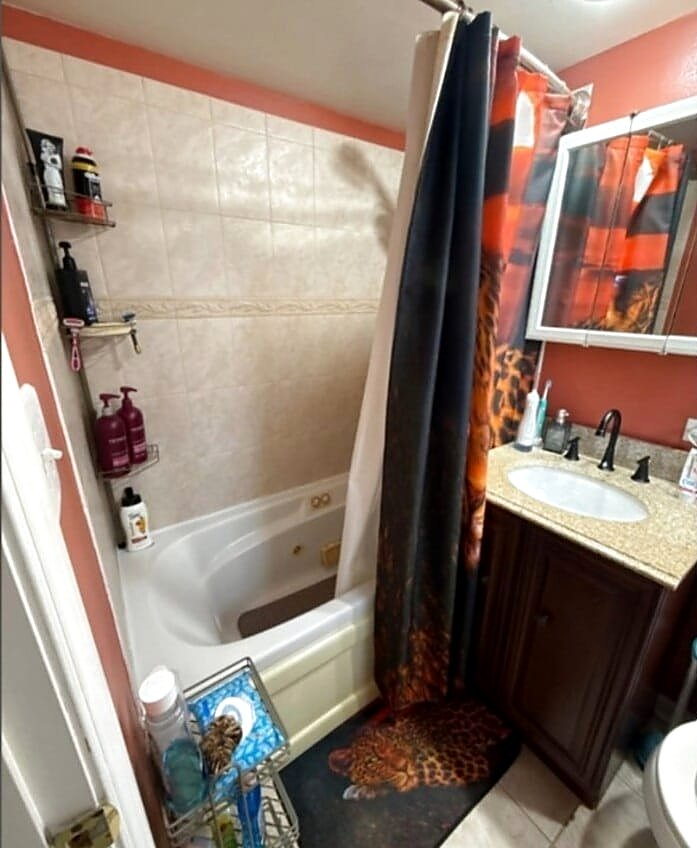
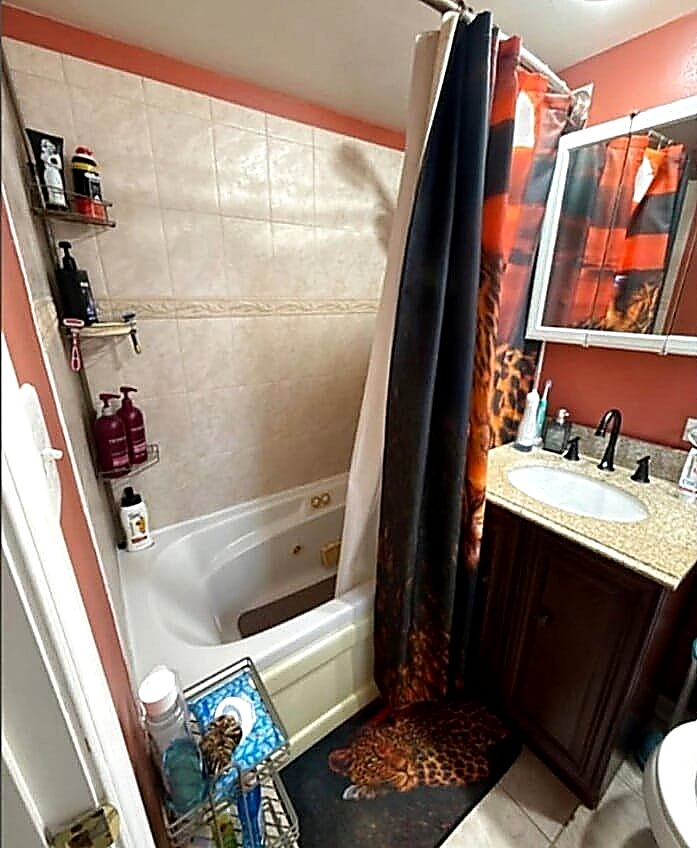
Remove Pergola concept slider; sharpen and resize before/after gallery
Removed the "Pergola — Design Concept" compare-item entirely per
client request, and the section lead's "except the last, marked
Concept" caveat along with it since every remaining slider is now a
completed real project. Updated the meta description to match.

The real before/after photos (bath1, bath2, shower, deck1/2/3) come
from client-supplied collages that were already fairly low-resolution
per half (697-797px wide) — well short of what the compare slider's
full container width (up to ~1240px, more at retina) needs to render
sharp. Capped .compare-item .compare at max-width:800px to cut the
upscale ratio substantially, and applied a stronger sharpening pass
(UnsharpMask + contrast + sharpness boost) tuned for already-soft,
under-resolved source material.

This measurably improves how they look but doesn't eliminate the
ceiling the source resolution sets — genuinely fixing it end to end
needs higher-resolution originals of these six rooms.

diff --git a/portfolio.html b/portfolio.html
@@ -4,7 +4,7 @@
 <meta charset="utf-8">
 <meta name="viewport" content="width=device-width, initial-scale=1">
 <title>Portfolio | M&amp;Z Design Chicago</title>
-<meta name="description" content="Room-by-room portfolio from M&amp;Z Design Chicago — kitchens, baths, living rooms, offices, bedrooms, and outdoor living, plus a reimagined pergola.">
+<meta name="description" content="Room-by-room portfolio from M&amp;Z Design Chicago — kitchens, baths, living rooms, offices, bedrooms, and outdoor living.">
 <link rel="canonical" href="https://test.mzdesignchicago.com/portfolio">
 <meta property="og:type" content="website">
 <meta property="og:site_name" content="M&amp;Z Design Chicago">
@@ -20,7 +20,7 @@
 <link rel="preconnect" href="https://fonts.googleapis.com">
 <link rel="preconnect" href="https://fonts.gstatic.com" crossorigin>
 <link rel="stylesheet" href="https://fonts.googleapis.com/css2?family=Cormorant+Garamond:ital,wght@0,300;0,400;0,500;0,600;0,700;1,300;1,400;1,600&family=Work+Sans:ital,wght@0,300;0,400;0,500;0,600;1,400&display=swap">
-<link rel="stylesheet" href="styles.css?v=202609261800">
+<link rel="stylesheet" href="styles.css?v=202609261810">
 <script async src="https://www.googletagmanager.com/gtag/js?id=G-YE0TQJKPHE"></script>
 <noscript><style>[data-reveal]{opacity:1!important;transform:none!important;}</style></noscript>
 </head>
@@ -161,7 +161,7 @@
       <div class="section-head">
         <p class="eyebrow">Before &amp; After</p>
         <h2>From overlooked to unforgettable.</h2>
-        <p class="lead">Drag any slider to compare. These are completed M&amp;Z projects, photographed before work began and again once finished — except the last, marked "Concept," which shows a design direction for a space we haven't built yet.</p>
+        <p class="lead">Drag any slider to compare. These are completed M&amp;Z projects, photographed before work began and again once finished.</p>
       </div>
 
       <div class="compare-item" data-reveal>
@@ -248,20 +248,6 @@
         </div>
       </div>
 
-      <div class="compare-item" data-reveal>
-        <h3>Pergola — Design Concept</h3>
-        <p>A dated white pergola, reimagined as a warm, layered outdoor room through lighting, natural textures and thoughtful styling — keeping what is already there, because a dramatic result doesn't always require an expensive rebuild.</p>
-        <div class="compare">
-          <picture><source type="image/webp" srcset="assets/img/pergola-after.webp"><img src="assets/img/pergola-after.jpg" width="1536" height="1024" alt="Design concept: the same outdoor structure styled as a warm, layered lounge with a fire pit"></picture>
-          <div class="after-wrap">
-            <picture><source type="image/webp" srcset="assets/img/pergola-before.webp"><img src="assets/img/pergola-before.jpg" width="1536" height="1030" alt="Before: a plain white pergola over a bare deck"></picture>
-          </div>
-          <span class="compare-tag compare-tag--before">Before</span>
-          <span class="compare-tag compare-tag--after">Concept</span>
-          <div class="compare-handle"><svg width="16" height="16"><use href="assets/icons.svg?v=202609231525#icon-arrow"></use></svg></div>
-          <input type="range" min="0" max="100" value="56" aria-label="Drag to compare before and after — Pergola Design Concept">
-        </div>
-      </div>
     </div>
   </section>
 
@@ -363,6 +349,6 @@
   </div>
 </footer>
 
-<script src="script.js?v=202609261800" defer></script>
+<script src="script.js?v=202609261810" defer></script>
 </body>
 </html>

diff --git a/contact.html b/contact.html
@@ -20,7 +20,7 @@
 <link rel="preconnect" href="https://fonts.googleapis.com">
 <link rel="preconnect" href="https://fonts.gstatic.com" crossorigin>
 <link rel="stylesheet" href="https://fonts.googleapis.com/css2?family=Cormorant+Garamond:ital,wght@0,300;0,400;0,500;0,600;0,700;1,300;1,400;1,600&family=Work+Sans:ital,wght@0,300;0,400;0,500;0,600;1,400&display=swap">
-<link rel="stylesheet" href="styles.css?v=202609261800">
+<link rel="stylesheet" href="styles.css?v=202609261810">
 <script async src="https://www.googletagmanager.com/gtag/js?id=G-YE0TQJKPHE"></script>
 <noscript><style>[data-reveal]{opacity:1!important;transform:none!important;}</style></noscript>
 <script type="application/ld+json">
@@ -314,6 +314,6 @@
   </div>
 </footer>
 
-<script src="script.js?v=202609261800" defer></script>
+<script src="script.js?v=202609261810" defer></script>
 </body>
 </html>

diff --git a/index.html b/index.html
@@ -22,7 +22,7 @@
 <link rel="preconnect" href="https://fonts.googleapis.com">
 <link rel="preconnect" href="https://fonts.gstatic.com" crossorigin>
 <link rel="stylesheet" href="https://fonts.googleapis.com/css2?family=Cormorant+Garamond:ital,wght@0,300;0,400;0,500;0,600;0,700;1,300;1,400;1,600&family=Work+Sans:ital,wght@0,300;0,400;0,500;0,600;1,400&display=swap">
-<link rel="stylesheet" href="styles.css?v=202609261800">
+<link rel="stylesheet" href="styles.css?v=202609261810">
 <script async src="https://www.googletagmanager.com/gtag/js?id=G-YE0TQJKPHE"></script>
 <noscript><style>[data-reveal]{opacity:1!important;transform:none!important;}</style></noscript>
 <script type="application/ld+json">
@@ -428,6 +428,6 @@
   </div>
 </footer>
 
-<script src="script.js?v=202609261800" defer></script>
+<script src="script.js?v=202609261810" defer></script>
 </body>
 </html>

diff --git a/about.html b/about.html
@@ -20,7 +20,7 @@
 <link rel="preconnect" href="https://fonts.googleapis.com">
 <link rel="preconnect" href="https://fonts.gstatic.com" crossorigin>
 <link rel="stylesheet" href="https://fonts.googleapis.com/css2?family=Cormorant+Garamond:ital,wght@0,300;0,400;0,500;0,600;0,700;1,300;1,400;1,600&family=Work+Sans:ital,wght@0,300;0,400;0,500;0,600;1,400&display=swap">
-<link rel="stylesheet" href="styles.css?v=202609261800">
+<link rel="stylesheet" href="styles.css?v=202609261810">
 <script async src="https://www.googletagmanager.com/gtag/js?id=G-YE0TQJKPHE"></script>
 <noscript><style>[data-reveal]{opacity:1!important;transform:none!important;}</style></noscript>
 </head>
@@ -264,6 +264,6 @@
   </div>
 </footer>
 
-<script src="script.js?v=202609261800" defer></script>
+<script src="script.js?v=202609261810" defer></script>
 </body>
 </html>

diff --git a/celebrations.html b/celebrations.html
@@ -20,7 +20,7 @@
 <link rel="preconnect" href="https://fonts.googleapis.com">
 <link rel="preconnect" href="https://fonts.gstatic.com" crossorigin>
 <link rel="stylesheet" href="https://fonts.googleapis.com/css2?family=Cormorant+Garamond:ital,wght@0,300;0,400;0,500;0,600;0,700;1,300;1,400;1,600&family=Work+Sans:ital,wght@0,300;0,400;0,500;0,600;1,400&display=swap">
-<link rel="stylesheet" href="styles.css?v=202609261800">
+<link rel="stylesheet" href="styles.css?v=202609261810">
 <script async src="https://www.googletagmanager.com/gtag/js?id=G-YE0TQJKPHE"></script>
 <noscript><style>[data-reveal]{opacity:1!important;transform:none!important;}</style></noscript>
 </head>
@@ -225,6 +225,6 @@
   </div>
 </footer>
 
-<script src="script.js?v=202609261800" defer></script>
+<script src="script.js?v=202609261810" defer></script>
 </body>
 </html>

diff --git a/originals.html b/originals.html
@@ -20,7 +20,7 @@
 <link rel="preconnect" href="https://fonts.googleapis.com">
 <link rel="preconnect" href="https://fonts.gstatic.com" crossorigin>
 <link rel="stylesheet" href="https://fonts.googleapis.com/css2?family=Cormorant+Garamond:ital,wght@0,300;0,400;0,500;0,600;0,700;1,300;1,400;1,600&family=Work+Sans:ital,wght@0,300;0,400;0,500;0,600;1,400&display=swap">
-<link rel="stylesheet" href="styles.css?v=202609261800">
+<link rel="stylesheet" href="styles.css?v=202609261810">
 <script async src="https://www.googletagmanager.com/gtag/js?id=G-YE0TQJKPHE"></script>
 <noscript><style>[data-reveal]{opacity:1!important;transform:none!important;}</style></noscript>
 </head>
@@ -259,6 +259,6 @@
   </div>
 </footer>
 
-<script src="script.js?v=202609261800" defer></script>
+<script src="script.js?v=202609261810" defer></script>
 </body>
 </html>

diff --git a/privacy.html b/privacy.html
@@ -21,7 +21,7 @@
 <link rel="preconnect" href="https://fonts.googleapis.com">
 <link rel="preconnect" href="https://fonts.gstatic.com" crossorigin>
 <link rel="stylesheet" href="https://fonts.googleapis.com/css2?family=Cormorant+Garamond:ital,wght@0,300;0,400;0,500;0,600;0,700;1,300;1,400;1,600&family=Work+Sans:ital,wght@0,300;0,400;0,500;0,600;1,400&display=swap">
-<link rel="stylesheet" href="styles.css?v=202609261800">
+<link rel="stylesheet" href="styles.css?v=202609261810">
 <script async src="https://www.googletagmanager.com/gtag/js?id=G-YE0TQJKPHE"></script>
 <noscript><style>[data-reveal]{opacity:1!important;transform:none!important;}</style></noscript>
 </head>
@@ -171,6 +171,6 @@
   </div>
 </footer>
 
-<script src="script.js?v=202609261800" defer></script>
+<script src="script.js?v=202609261810" defer></script>
 </body>
 </html>

diff --git a/services.html b/services.html
@@ -20,7 +20,7 @@
 <link rel="preconnect" href="https://fonts.googleapis.com">
 <link rel="preconnect" href="https://fonts.gstatic.com" crossorigin>
 <link rel="stylesheet" href="https://fonts.googleapis.com/css2?family=Cormorant+Garamond:ital,wght@0,300;0,400;0,500;0,600;0,700;1,300;1,400;1,600&family=Work+Sans:ital,wght@0,300;0,400;0,500;0,600;1,400&display=swap">
-<link rel="stylesheet" href="styles.css?v=202609261800">
+<link rel="stylesheet" href="styles.css?v=202609261810">
 <script async src="https://www.googletagmanager.com/gtag/js?id=G-YE0TQJKPHE"></script>
 <noscript><style>[data-reveal]{opacity:1!important;transform:none!important;}</style></noscript>
 </head>
@@ -265,6 +265,6 @@
   </div>
 </footer>
 
-<script src="script.js?v=202609261800" defer></script>
+<script src="script.js?v=202609261810" defer></script>
 </body>
 </html>

diff --git a/styles.css b/styles.css
@@ -453,6 +453,7 @@ h2 + p, h3 + p{ margin-top: var(--sp-3); }
 .compare-item + .compare-item{ margin-top: var(--sp-8); }
 .compare-item h3{ font-size: var(--fs-h3); margin-bottom: var(--sp-4); }
 .compare-item p{ color: var(--espresso-soft); max-width: var(--measure); margin-bottom: var(--sp-4); }
+.compare-item .compare{ max-width: 800px; }
 
 /* ---------- Occasions ---------- */
 .occasion-list{ display:flex; flex-wrap:wrap; gap: var(--sp-3); }
